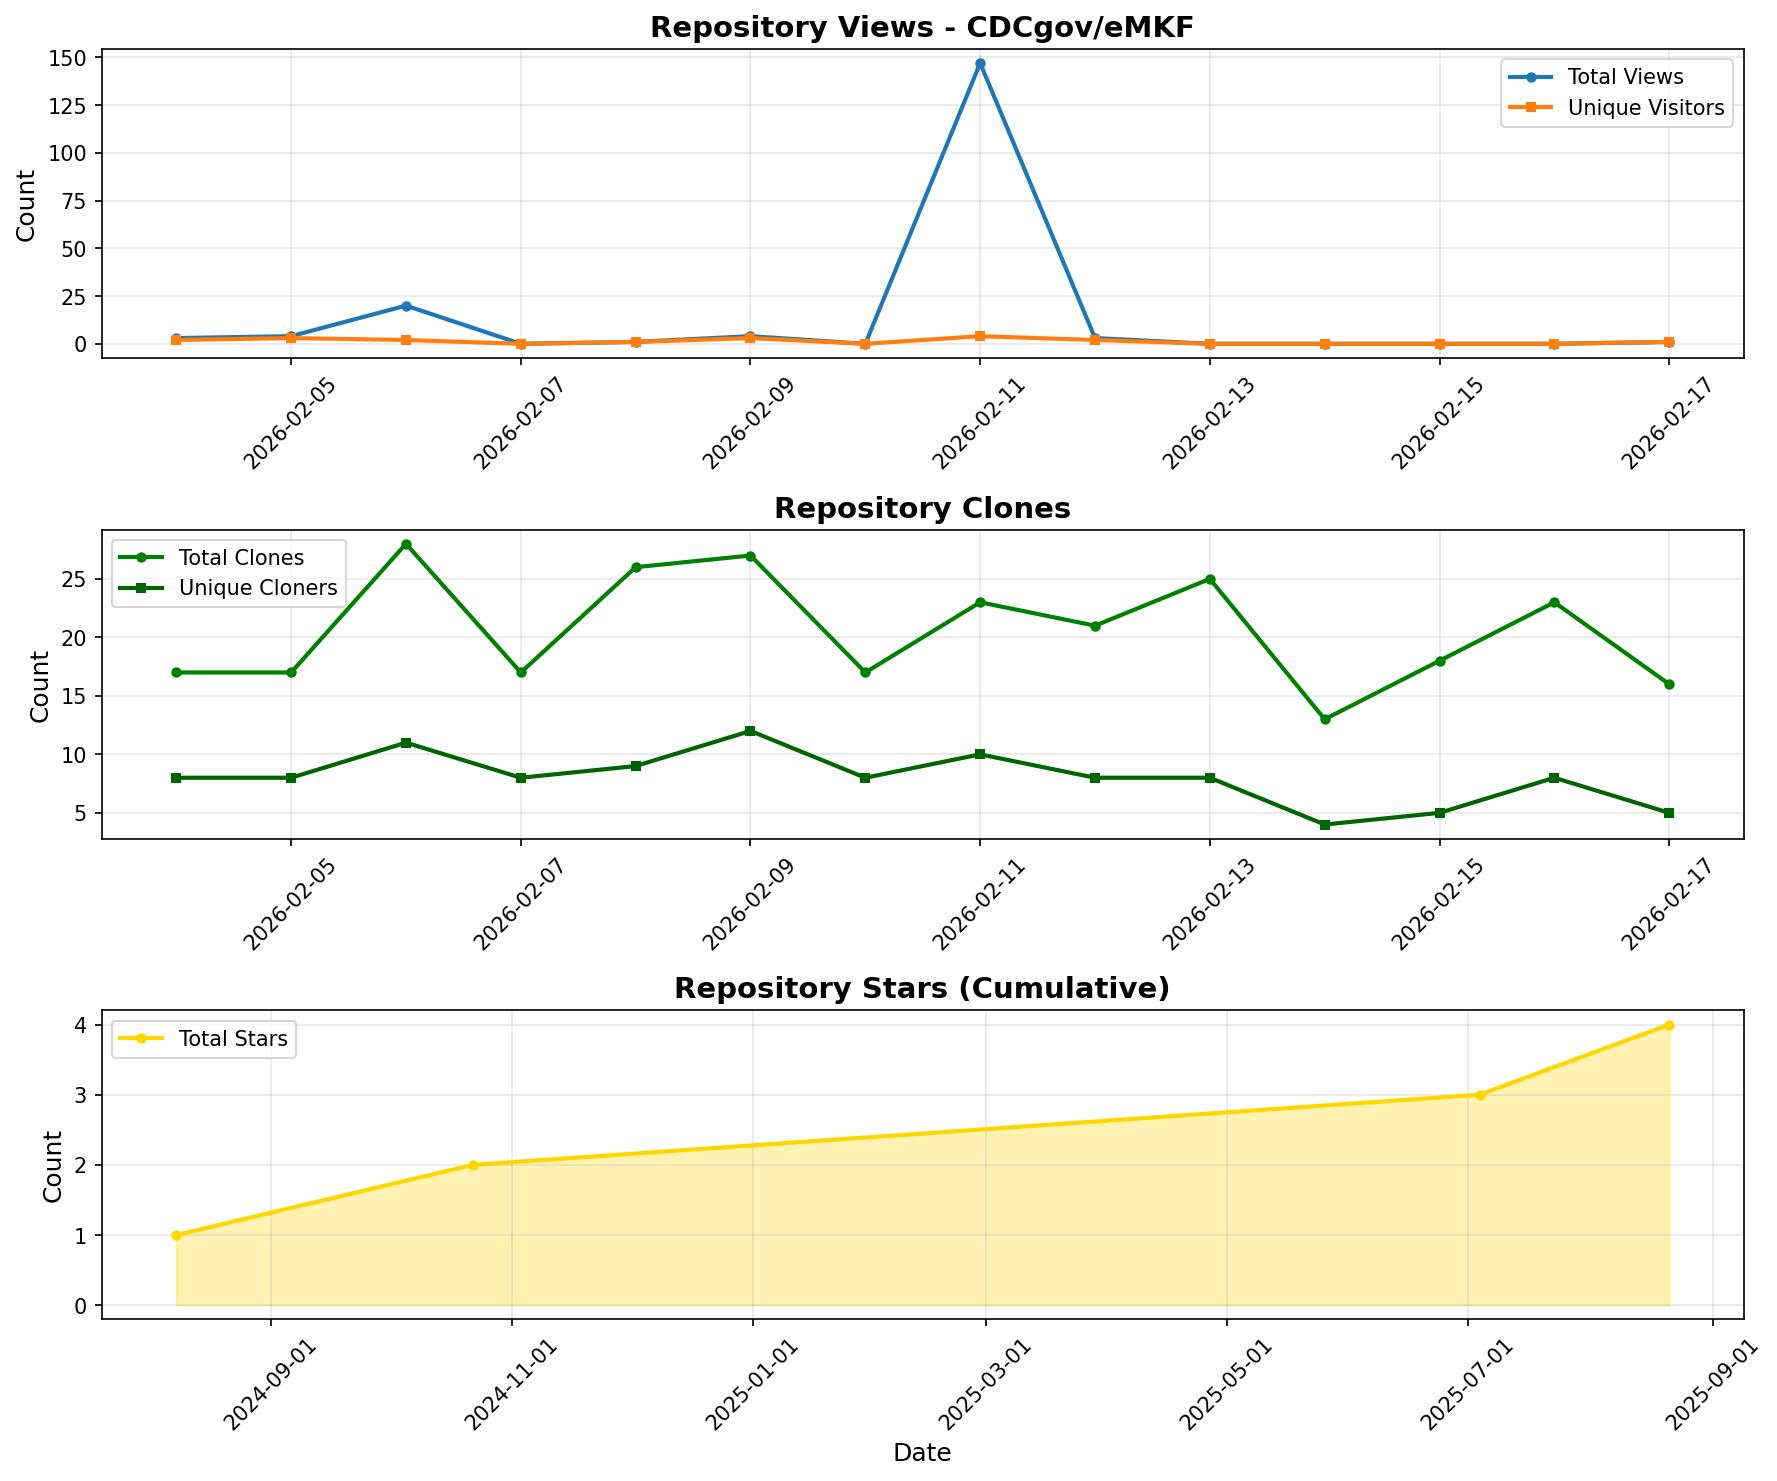
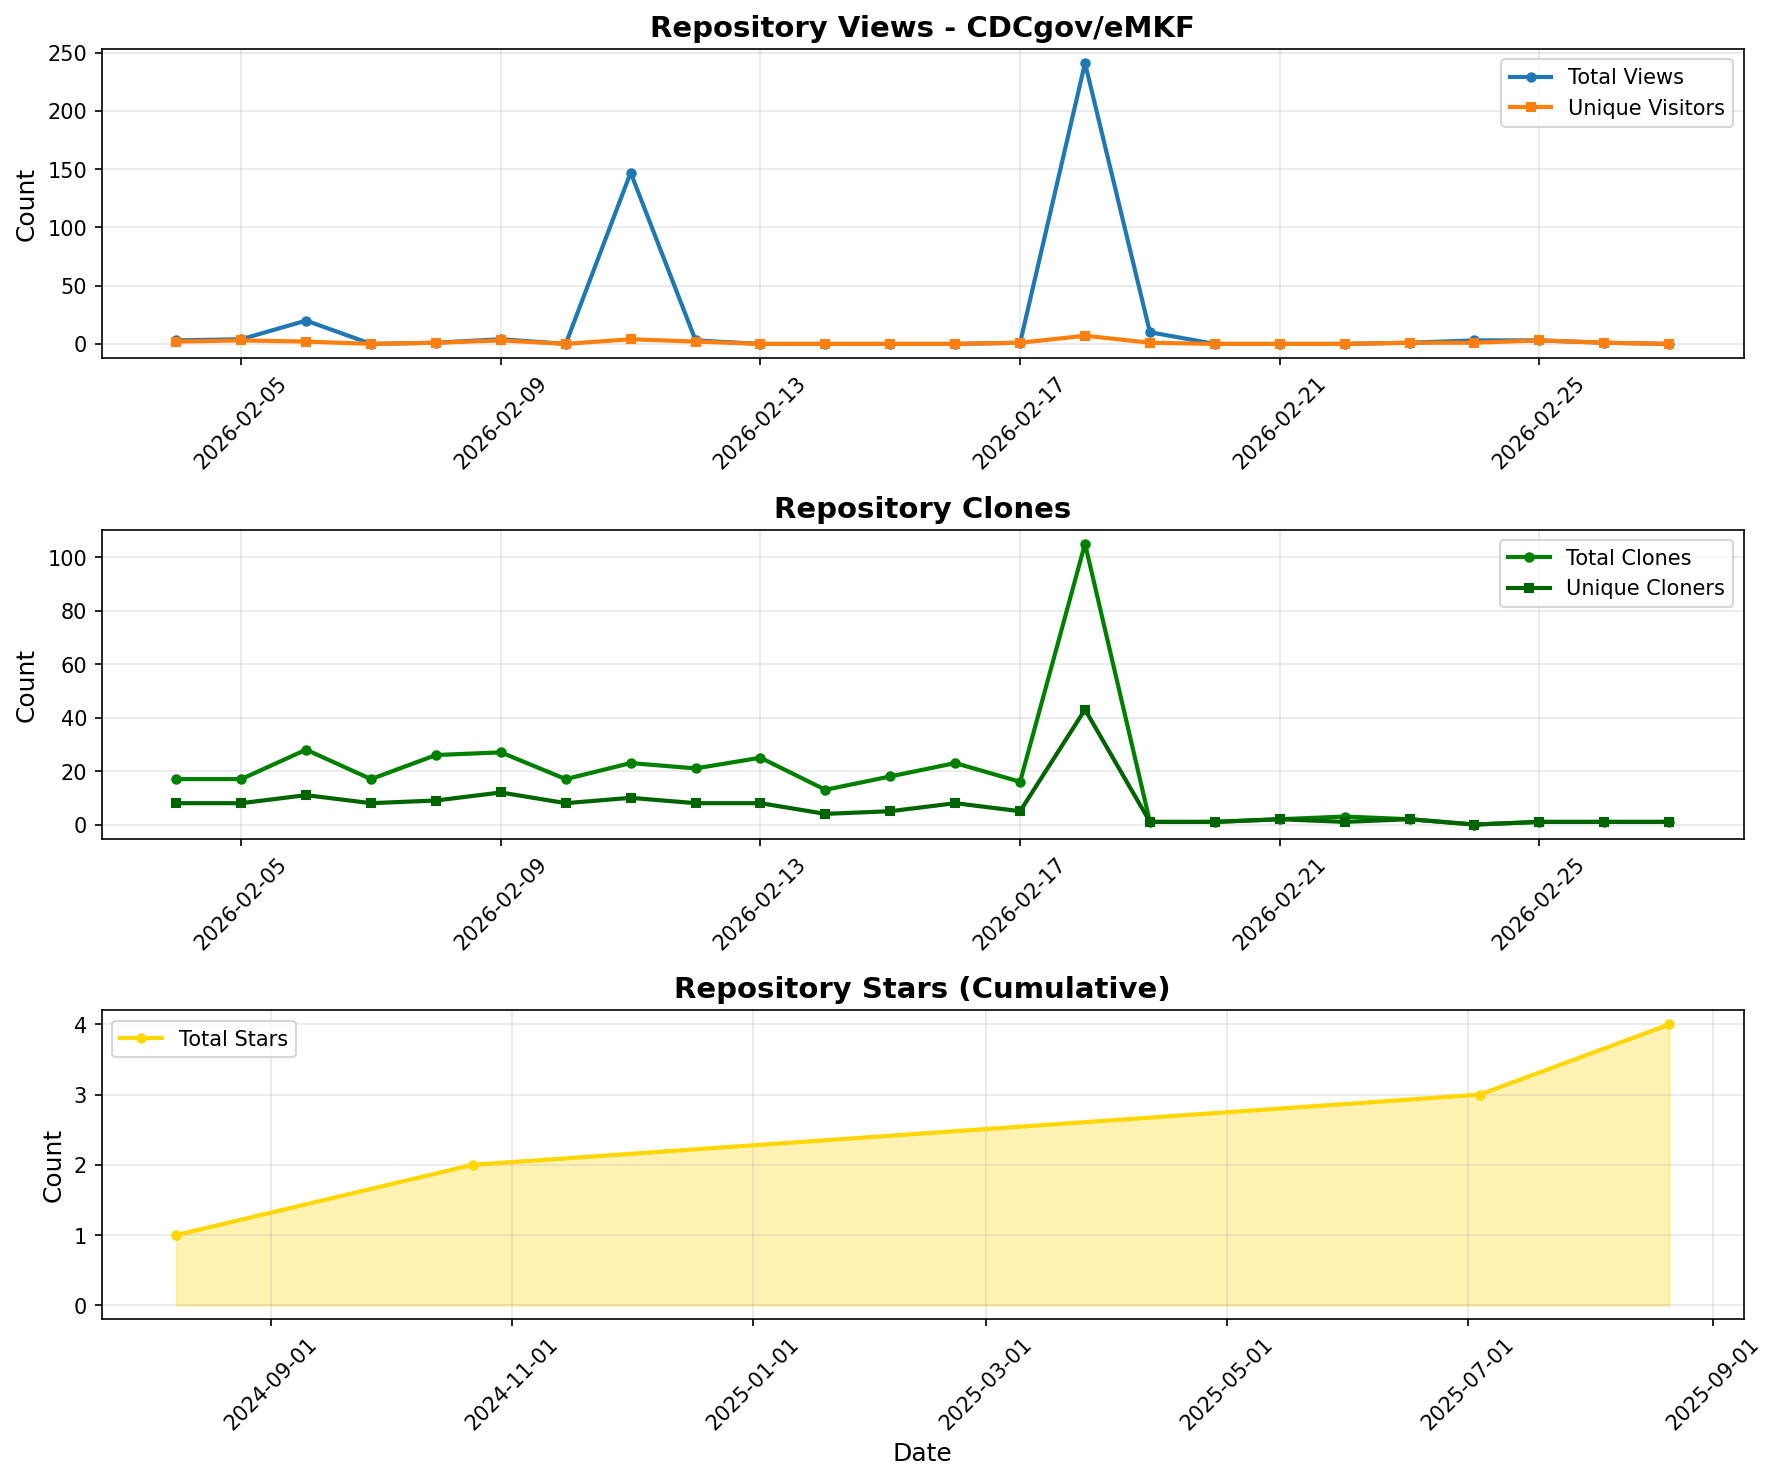
Update traffic stats [skip ci]

diff --git a/.traffic/README.md b/.traffic/README.md
@@ -1,6 +1,6 @@
 # Repository Traffic Statistics
 
-> Last updated: **February 18, 2026 at 20:47 UTC**
+> Last updated: **March 01, 2026 at 01:15 UTC**
 
 ## 📊 Traffic Overview
 
@@ -11,15 +11,15 @@
 ### Latest 14 Days
 | Metric | Total | Unique |
 |--------|-------|--------|
-| 👁 **Views** | 183 | 18 |
-| 📦 **Clones** | 288 | 112 |
+| 👁 **Views** | 260 | 15 |
+| 📦 **Clones** | 187 | 75 |
 | ⭐ **Stars** | 4 | - |
 
 ### All Time (Since Tracking Started)
 | Metric | Total | Unique | Data Points |
 |--------|-------|--------|-------------|
-| 👁 **Views** | 183 | 18 | 14 days |
-| 📦 **Clones** | 288 | 112 | 14 days |
+| 👁 **Views** | 442 | 32 | 24 days |
+| 📦 **Clones** | 405 | 165 | 24 days |
 | ⭐ **Stars** | 4 | - | 4 days |
 
 ## 📁 Available Files
